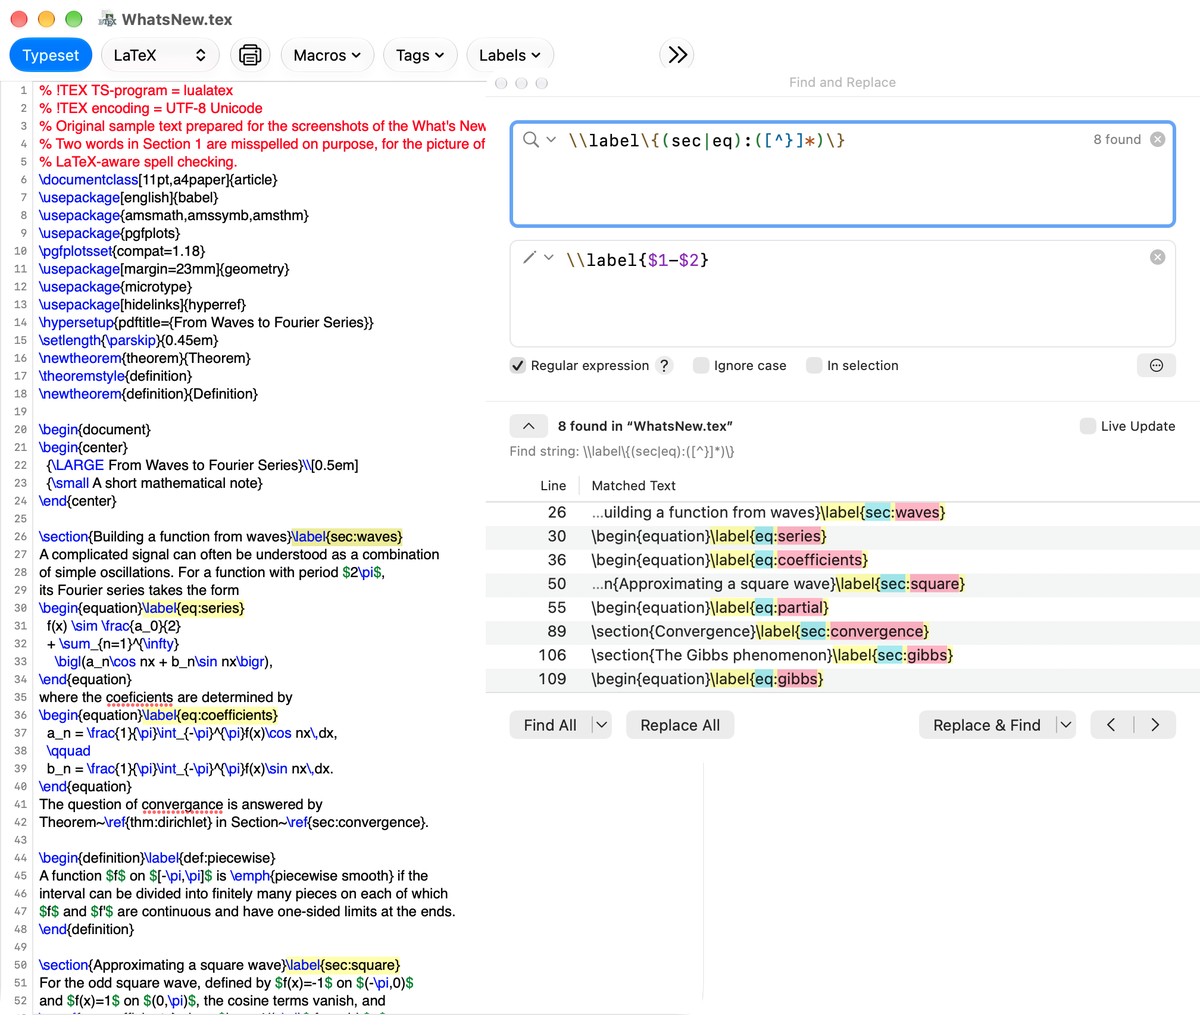
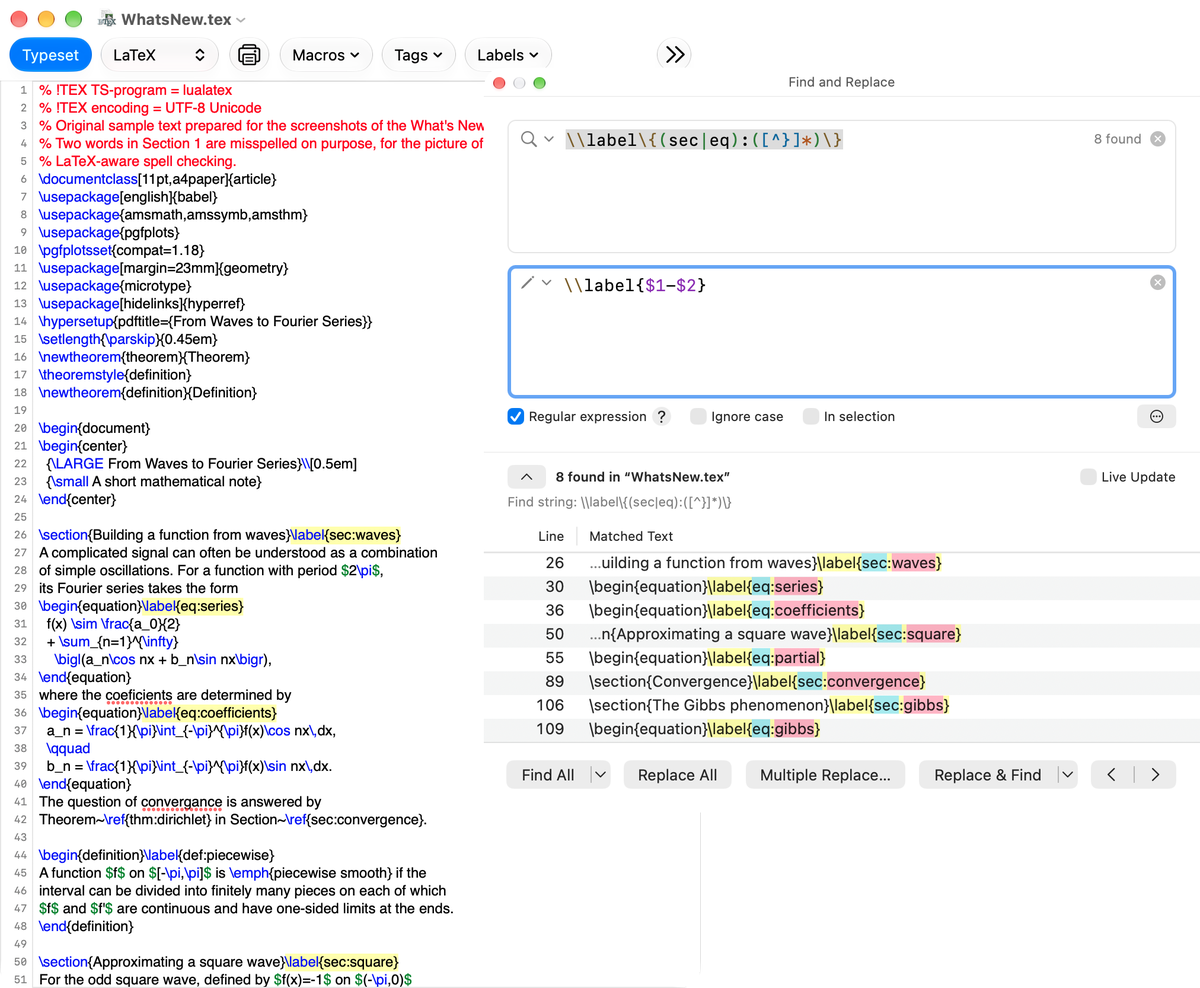
Show the Advanced Find panel with its Multiple Replace button
Retake the English and Japanese screenshots of the Advanced Find panel,
which the What's New page and the release notes show, now that the
panel has a Multiple Replace button.

diff --git a/website/whats-new-ja.html b/website/whats-new-ja.html
@@ -9,7 +9,7 @@
 <p class="release-date">TeXShop 6.00（準備中） · <a href="https://github.com/TeXShopProject/TeXShop/releases">最新のベータを試す</a></p>
 <p class="lead">TeXShop 6では、詳細検索パネル、LaTeXの構造を考慮するスペルチェック、固定できるリンクのポップアップ、新しい設定画面を加え、分割したプレビューウインドウの動きを改め、アプリのアイコンを新しくしました。</p>
 <section class="feature-list" aria-label="主な変更">
-<article class="feature" id="advanced-find"><div class="feature-text"><h2>詳細検索パネル</h2><p>正規表現を使える検索と置換のパネルです。「すべて検索」はすべての一致を行とともに一覧にし、「すべてハイライト」は本文の中の一致を示します。「複数置換」は、保存した検索と置換の組を順に適用し、1回で取り消せます。時間のかかる処理は裏で進み、キャンセルできます。</p></div><figure><img src="assets/whats-new/ja/advanced-find.png" width="600" height="536" alt="正規表現を入れた詳細検索パネルと、すべての一致の一覧、ソースで強調された一致"></figure></article>
+<article class="feature" id="advanced-find"><div class="feature-text"><h2>詳細検索パネル</h2><p>正規表現を使える検索と置換のパネルです。「すべて検索」はすべての一致を行とともに一覧にし、「すべてハイライト」は本文の中の一致を示します。「複数置換」は、保存した検索と置換の組を順に適用し、1回で取り消せます。時間のかかる処理は裏で進み、キャンセルできます。</p></div><figure><img src="assets/whats-new/ja/advanced-find.png" width="600" height="494" alt="正規表現を入れた詳細検索パネルと、すべての一致の一覧、ソースで強調された一致"></figure></article>
 <article class="feature" id="spell-checking"><div class="feature-text"><h2>LaTeXの構造を考慮するスペルチェック</h2><p>TeXのコマンド、コメント、数式と、ラベル・キー・長さなどの引数を飛ばして検査します。よく使うパッケージの規則を備え、規則は編集できます。「すべて変更」は書類の中の同じ語をまとめて置き換え、1回で取り消せます。</p></div><figure><img src="assets/whats-new/ja/spell.png" width="600" height="530" alt="LaTeXのソースの本文で印の付いた2つの綴りの誤りと、「すべて変更」の欄に候補が入ったスペルのパネル" loading="lazy"></figure></article>
 <article class="feature" id="link-previews"><div class="feature-text"><h2>固定できるリンクのポップアップ</h2><p>Optionキーで内部リンクのポップアップを固定できます。固定したポップアップは、動かす、大きさを変える、スクロールすることができます。ポップアップは本文の段の幅に合わせ、リンク先のページのラベルを示し、連続表示では次のページへ続けて表示します。</p></div><figure><img src="assets/whats-new/ja/link-preview.png" width="386" height="560" alt="2ページの定理1を示す固定したリンクのポップアップ。右下にページのラベル" loading="lazy"></figure></article>
 <article class="feature" id="split-preview"><div class="feature-text"><h2>分割したプレビューウインドウ</h2><p>境界線をドラッグしても、それぞれの部分の上端の内容は動きません。「ビューを切り替え」は二つの部分をそっくり入れ替え、作業中の部分は細い線で示します。「ウインドウを分割してリンク先を表示」は、リンク先をもう一方の部分に表示します。「内容の幅に合わせる」は、本文がウインドウの幅いっぱいになるように倍率を変えます。</p></div><figure><img src="assets/whats-new/ja/split-preview.png" width="386" height="560" alt="「ウインドウを分割してリンク先を表示」で分割したプレビューウインドウ。作業中の部分に線" loading="lazy"></figure></article>

diff --git a/website/whats-new.html b/website/whats-new.html
@@ -9,7 +9,7 @@
 <p class="release-date">TeXShop 6.00 — In preparation · <a href="https://github.com/TeXShopProject/TeXShop/releases">Try the latest beta</a></p>
 <p class="lead">TeXShop 6 adds the Advanced Find panel, LaTeX-aware spell checking, pinned link previews and a new Settings window, changes how a split Preview window behaves, and has a new app icon.</p>
 <section class="feature-list" aria-label="Main changes">
-<article class="feature" id="advanced-find"><div class="feature-text"><h2>Advanced Find panel</h2><p>A find and replace panel with regular expressions. Find All lists every match with its line, Highlight All marks the matches in the text, and Multiple Replace applies a saved set of find and replace pairs in order, with a single undo. Long operations run in the background and can be canceled.</p></div><figure><img src="assets/whats-new/en/advanced-find.png" width="600" height="507" alt="The Advanced Find panel with a regular expression and the list of all matches, and the matches highlighted in the source"></figure></article>
+<article class="feature" id="advanced-find"><div class="feature-text"><h2>Advanced Find panel</h2><p>A find and replace panel with regular expressions. Find All lists every match with its line, Highlight All marks the matches in the text, and Multiple Replace applies a saved set of find and replace pairs in order, with a single undo. Long operations run in the background and can be canceled.</p></div><figure><img src="assets/whats-new/en/advanced-find.png" width="600" height="494" alt="The Advanced Find panel with a regular expression and the list of all matches, and the matches highlighted in the source"></figure></article>
 <article class="feature" id="spell-checking"><div class="feature-text"><h2>LaTeX-aware spell checking</h2><p>Spell checking skips TeX commands, comments, mathematics, and arguments such as labels, keys and lengths. Rules for common packages are included and can be edited. Change All replaces a word throughout the document with a single undo.</p></div><figure><img src="assets/whats-new/en/spell.png" width="600" height="521" alt="Two misspelled words marked in the prose of a LaTeX source, and the spelling panel with a suggestion in the Change All field" loading="lazy"></figure></article>
 <article class="feature" id="link-previews"><div class="feature-text"><h2>Pinned link previews</h2><p>Option pins the preview of an internal link. A pinned preview can be moved, resized and scrolled. Previews are sized to the text column, show the label of the linked page, and in the continuous display formats continue on the next page.</p></div><figure><img src="assets/whats-new/en/link-preview.png" width="386" height="560" alt="A pinned link preview showing Theorem 1 from page 2, with the page label in its lower right corner" loading="lazy"></figure></article>
 <article class="feature" id="split-preview"><div class="feature-text"><h2>Split Preview window</h2><p>Dragging the divider keeps the text at the top of each part in place. Switch Views exchanges the two parts completely, and a thin line marks the active part. Split Window with Link shows a link’s target in the other part. Zoom to Content Width sets the magnification so that the text fills the width of the window.</p></div><figure><img src="assets/whats-new/en/split-preview.png" width="386" height="560" alt="A Preview window split by Split Window with Link, with a line along the active part" loading="lazy"></figure></article>
